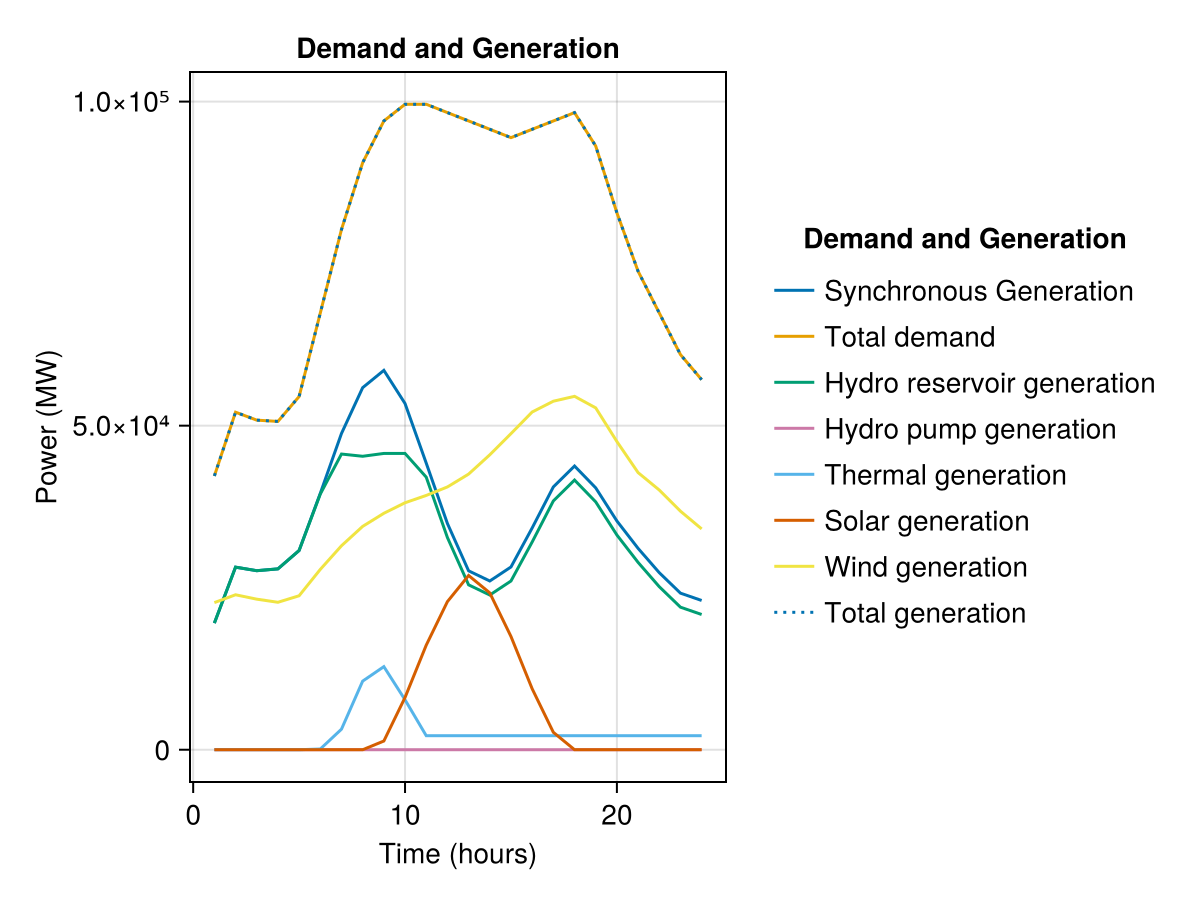
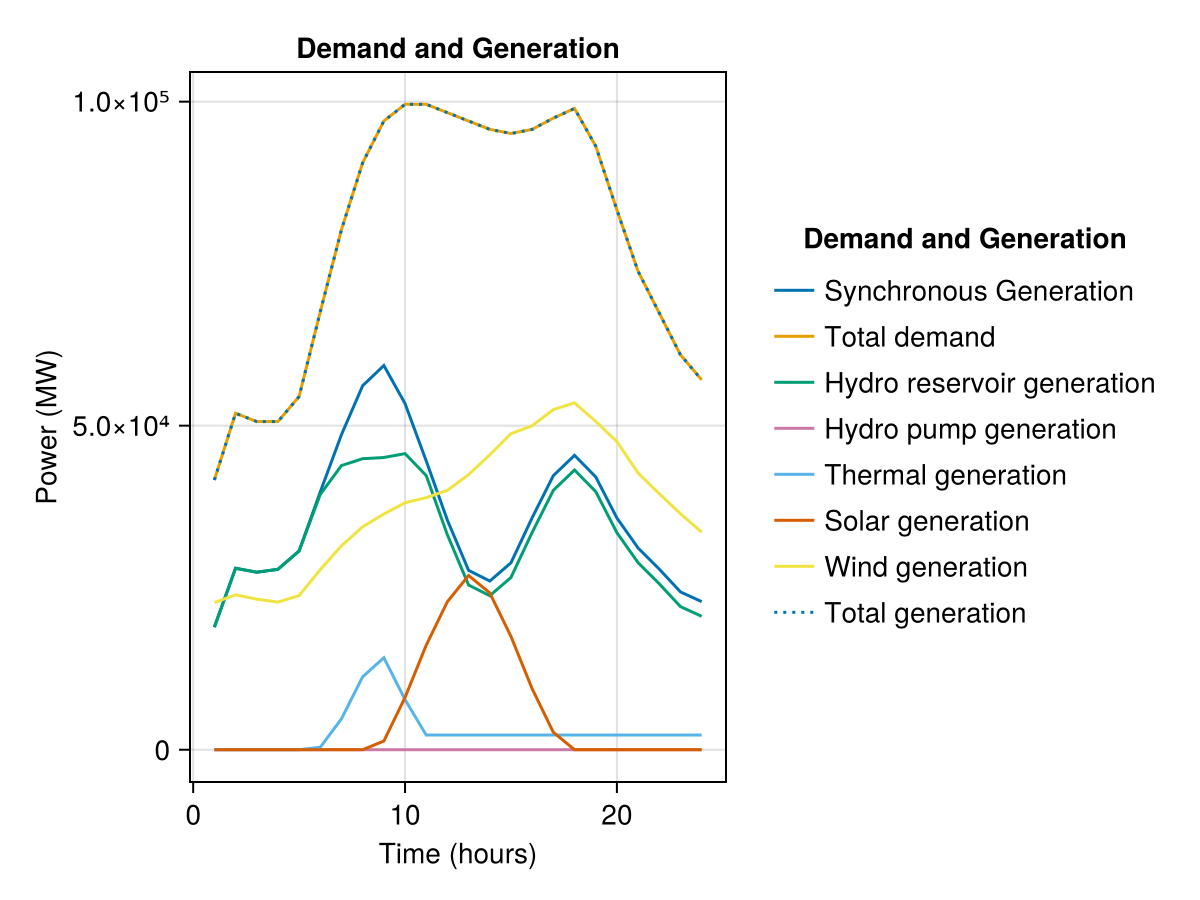
Backup_4_21_2026
En este codigo se organizo el error que no permitia tener un deploytment time más largo que 15 para el generador termico. Adicionalmente, se aseguro que la reserva solar y wind fuera cero para que no causara problemas en la restricción de estabilidad de frecuencia.

diff --git a/Nordic_test_system_together.m b/Nordic_test_system_together.m
@@ -885,135 +885,135 @@ mpc.gencost = [
 % 6 = mpc.gen_extra_oil
 
 mpc.genextra = [
-12457	15	4	2042.84	2042.84	0	0	15.287	204.284	0	3490352	1	0	0.9	349035.2	3490352	3455448.48;
-2458	15	4	894.69	894.69	0	0	15.287	89.469	0	1528653	1	0	0.9	152865.3	1528653	1513366.47;
-2460	15	4	299.08	299.08	0	0	15.287	29.908	0	510995	1	0	0.9	51099.5	510995	505885.05;
-4914	15	4	1730.37	1730.37	0	0	15.287	173.037	0	3706323	1	0	0.9	370632.3	3706323	3669259.77;
-4915	15	4	150.65	150.65	0	0	15.287	15.065	0	322671	1	0	0.9	32267.1	322671	319444.29;
-4916	15	4	383.08	383.08	0	0	15.287	38.308	0	820529	1	0	0.9	82052.9	820529	812323.71;
-4918	15	4	232.33	232.33	0	0	15.287	23.233	0	497632	1	0	0.9	49763.2	497632	492655.68;
-4919	15	4	1031.58	1031.58	0	0	15.287	103.158	0	2209561	1	0	0.9	220956.1	2209561	2187465.39;
-4920	15	4	517.79	517.79	0	0	15.287	51.779	0	1980268	1	0	0.9	198026.8	1980268	1960465.32;
-4921	15	4	179.49	179.49	0	0	15.287	17.949	0	686433	1	0	0.9	68643.3	686433	679568.67;
-4922	15	4	828.33	828.33	0	0	15.287	82.833	0	3167895	1	0	0.9	316789.5	3167895	3136216.05;
-4923	15	4	1199.29	1199.29	0	0	15.287	119.929	0	4586614	1	0	0.9	458661.4	4586614	4540747.86;
-4924	15	4	1876.63	1876.63	0	0	15.287	187.663	0	7177080	1	0	0.9	717708	7177080	7105309.20;
-4925	15	4	38.98	38.98	0	0	15.287	3.898	0	149066	1	0	0.9	14906.6	149066	147575.34;
-4926	15	4	100.12	100.12	0	0	15.287	10.012	0	382913	1	0	0.9	38291.3	382913	379083.87;
-4927	15	4	2654.59	2654.59	0	0	15.287	265.459	0	10152364	1	0	0.9	1015236.4	10152364	10050840.36;
-4928	15	4	425.64	425.64	0	0	15.287	42.564	0	1627857	1	0	0.9	162785.7	1627857	1611578.43;
-4929	15	4	476.73	476.73	0	0	15.287	47.673	0	1823222	1	0	0.9	182322.2	1823222	1804990.78;
-4930	15	4	150.08	150.08	0	0	15.287	15.008	0	573985	1	0	0.9	57398.5	573985	568245.15;
-4931	15	4	1004.57	1004.57	0	0	15.287	100.457	0	4653316	1	0	0.9	465331.6	4653316	4606782.84;
-4932	15	4	3355.43	3355.43	0	0	15.287	335.543	0	6524384	1	0	0.9	652438.4	6524384	6459140.16;
-4933	15	4	858.02	858.02	0	0	15.287	85.802	0	3743390	1	0	0.9	374339	3743390	3705956.10;
-4934	15	4	2358.23	2358.23	0	0	15.287	235.823	0	10288543	1	0	0.9	1028854.3	10288543	10185657.57;
-4935	15	4	2076.75	2076.75	0	0	15.287	207.675	0	9060467	1	0	0.9	906046.7	9060467	8969862.33;
-4936	15	4	774.52	774.52	0	0	15.287	77.452	0	1342375	1	0	0.9	134237.5	1342375	1328951.25;
-4937	15	4	4476.97	4476.97	0	0	15.287	447.697	0	7759368	1	0	0.9	775936.8	7759368	7681774.32;
-4938	15	4	690.11	690.11	0	0	15.287	69.011	0	1196078	1	0	0.9	119607.8	1196078	1184117.22;
-4939	15	4	750.68	750.68	0	0	15.287	75.068	0	1301067	1	0	0.9	130106.7	1301067	1288056.33;
-4940	15	4	1270.15	1270.15	0	0	15.287	127.015	0	2201386	1	0	0.9	220138.6	2201386	2179372.14;
-4941	15	4	2400.57	2400.57	0	0	15.287	240.057	0	4160615	1	0	0.9	416061.5	4160615	4119008.85;
-5476	15	4	1025.76	1025.76	0	0	15.287	102.576	0	2718217	1	0	0.9	271821.7	2718217	2691034.83;
-5477	15	4	4418.24	4418.24	0	0	15.287	441.824	0	11708090	1	0	0.9	1170809	11708090	11591009.10;
-5478	15	4	655.60	655.60	0	0	15.287	65.560	0	1201458	1	0	0.9	120145.8	1201458	1189443.42;
-5479	15	4	782.18	782.18	0	0	15.287	78.218	0	1433439	1	0	0.9	143343.9	1433439	1419104.61;
-5480	15	4	3417.36	3417.36	0	0	15.287	341.736	0	6262722	1	0	0.9	626272.2	6262722	6200094.78;
-5481	15	4	3219.97	3219.97	0	0	15.287	321.997	0	5900981	1	0	0.9	590098.1	5900981	5841971.19;
-5483	15	4	1728.26	1728.26	0	0	15.287	172.826	0	1763109	1	0	0.9	176310.9	1763109	1745477.91;
-5484	15	4	121.84	121.84	0	0	15.287	12.184	0	124296	1	0	0.9	12429.6	124296	123053.04;
-5485	15	4	375.38	375.38	0	0	15.287	37.538	0	382950	1	0	0.9	38295	382950	379120.50;
-5486	15	4	275.42	275.42	0	0	15.287	27.542	0	280978	1	0	0.9	28097.8	280978	278168.22;
-5487	15	4	52.08	52.08	0	0	15.287	5.208	0	53132	1	0	0.9	5313.2	53132	52600.68;
-5489	15	4	30.01	30.01	0	0	15.287	3.001	0	30612	1	0	0.9	3061.2	30612	30305.88;
-5490	15	4	21.13	21.13	0	0	15.287	2.113	0	64369	1	0	0.9	6436.9	64369	63725.31;
-5493	15	4	323.87	323.87	0	0	15.287	32.387	0	146981	1	0	0.9	14698.1	146981	145511.19;
-4922	15	4	35.89	35.89	0	0	15.287	3.589	-21.39	126069	2	0.7	0.9	12606.9	18910.35	18910.35;
-4924	15	4	861.44	861.44	0	0	15.287	86.144	-515.61	4076931	2	0.7	0.9	407693.1	611539.65	611539.65;
-4932	15	4	96.00	96.00	0	0	15.287	9.600	-84.00	182000	2	0.7	0.9	18200	27300	27300;
-4937	15	4	322.74	322.74	0	0	15.287	32.274	-299.14	563362	2	0.7	0.9	56336.2	84504.3	84504.3;
-4938	15	4	53.26	53.26	0	0	15.287	5.326	-49.86	74638	2	0.7	0.9	7463.8	11195.7	11195.7;
-2460	15	5	501 	501	    24  0	15.287	50.1	0	0	3	0	0	0	0	0;
-2460	15	5	501 	501	    24	0	15.287	50.1	0	0	3	0	0	0	0	0;
-2460	15	5	888 	888	    24	0	15.287	88.8	0	0	3	0	0	0	0	0;
-2460	15	5	888 	888	    24	0	15.287	88.8	0	0	3	0	0	0	0	0;
-2460	15	5	1615	1615	24	0	15.287	161.5	0	0	3	0	0	0	0	0;
-5484	15	5	1119	1119	24	0	15.287	111.9	0	0	3	0	0	0	0	0;
-5484	15	5	1166	1166	24	0	15.287	116.6	0	0	3	0	0	0	0	0;
-5488	15	5	1064	1064	24	0	15.287	106.4	0	0	3	0	0	0	0	0;
-5488	15	5	1105	1105	24	0	15.287	110.5	0	0	3	0	0	0	0	0;
-5489	15	5	1398	1398	24	0	15.287	139.8	0	0	3	0	0	0	0	0;
-2460	15	5	1127	1127	24	0	15.287	112.7	0	0	3	0	0	0	0	0;
-2460	15	5	1127	1127	24	0	15.287	112.7	0	0	3	0	0	0	0	0;
-2460	15	5	1127	1127	24	0	15.287	112.7	0	0	3	0	0	0	0	0;
-2460	15	5	1127	1127	24	0	15.287	112.7	0	0	3	0	0	0	0	0;
-2460	15	5	1127	1127	24	0	15.287	112.7	0	0	3	0	0	0	0	0;
-5484	15	5	1127	1127	24	0	15.287	112.7	0	0	3	0	0	0	0	0;
-5484	15	5	1127	1127	24	0	15.287	112.7	0	0	3	0	0	0	0	0;
-5488	15	5	1127	1127	24	0	15.287	112.7	0	0	3	0	0	0	0	0;
-5488	15	5	1127	1127	24	0	15.287	112.7	0	0	3	0	0	0	0	0;
-5489	15	5	1127	1127	24	0	15.287	112.7	0	0	3	0	0	0	0	0;
-5489	15	5	1127	1127	24	0	15.287	112.7	0	0	3	0	0	0	0	0;
-1517	15	4	583.2	583.2	0	0	15.287	16.2	0	0	4	0	0	0	0	0;
-1523	15	4	388.8	388.8	0	0	15.287	10.8	0	0	4	0	0	0	0	0;
-1524	15	4	763.2	763.2	0	0	15.287	21.2	0	0	4	0	0	0	0	0;
-1535	15	4	475.2	475.2	0	0	15.287	13.2	0	0	4	0	0	0	0	0;
-1559	15	4	381.6	381.6	0	0	15.287	10.6	0	0	4	0	0	0	0	0;
-2460	15	4	3038.4	3038.4	0	0	15.287	84.4	0	0	4	0	0	0	0	0;
-2460	15	4	3340.8	3340.8	0	0	15.287	92.8	0	0	4	0	0	0	0	0;
-2460	15	4	8330.4	8330.4	0	0	15.287	231.4	0	0	4	0	0	0	0	0;
-2460	15	4	11296.8	11296.8	0	0	15.287	313.8	0	0	4	0	0	0	0	0;
-4931	15	4	64.8	64.8	0	0	15.287	1.8	    0	0	4	0	0	0	0	0;
-4931	15	4	79.2	79.2	0	0	15.287	2.2 	0	0	4	0	0	0	0	0;
-4934	15	4	1404.0	1404.0	0	0	15.287	39.0	0	0	4	0	0	0	0	0;
-5480	15	4	388.8	388.8	0	0	15.287	10.8	0	0	4	0	0	0	0	0;
-5488	15	4	410.4	410.4	0	0	15.287	11.4	0	0	4	0	0	0	0	0;
-1544	15	4	18.6	18.6	1	1	15.287	3.1	    0	0	5	0	0	0	0	0;
-1547	15	4	85.8	85.8	1	1	15.287	14.3	0	0	5	0	0	0	0	0;
-1547	15	4	40.8	40.8	1	1	15.287	6.8	    0	0	5	0	0	0	0	0;
-1555	15	4	79.8	79.8	1	1	15.287	13.3	0	0	5	0	0	0	0	0;
-1569	15	4	142.8	142.8	1	1	15.287	23.8	0	0	5	0	0	0	0	0;
-1571	15	4	313.8	313.8	1	1	15.287	52.3	0	0	5	0	0	0	0	0;
-1571	15	4	33.0	33.0	1	1	15.287	5.5	    0	0	5	0	0	0	0	0;
-1571	15	4	33.0	33.0	1	1	15.287	5.5	    0	0	5	0	0	0	0	0;
-2457	15	4	210.6	210.6	1	1	15.287	35.1	0	0	5	0	0	0	0	0;
-2457	15	4	132.0	132.0	1	1	15.287	22.0	0	0	5	0	0	0	0	0;
-2457	15	4	82.8	82.8	1	1	15.287	13.8	0	0	5	0	0	0	0	0;
-2457	15	4	79.8	79.8	1	1	15.287	13.3	0	0	5	0	0	0	0	0;
-2457	15	4	78.6	78.6	1	1	15.287	13.1	0	0	5	0	0	0	0	0;
-2457	15	4	69.0	69.0	1	1	15.287	11.5	0	0	5	0	0	0	0	0;
-2457	15	4	66.0	66.0	1	1	15.287	11.0	0	0	5	0	0	0	0	0;
-2457	15	4	66.0	66.0	1	1	15.287	11.0	0	0	5	0	0	0	0	0;
-2457	15	4	58.8	58.8	1	1	15.287	9.8	    0	0	5	0	0	0	0	0;
-2460	15	4	310.8	310.8	1	1	15.287	51.8	0	0	5	0	0	0	0	0;
-2460	15	4	179.4	179.4	1	1	15.287	29.9	0	0	5	0	0	0	0	0;
-2460	15	4	178.8	178.8	1	1	15.287	29.8	0	0	5	0	0	0	0	0;
-2460	15	4	104.4	104.4	1	1	15.287	17.4	0	0	5	0	0	0	0	0;
-2460	15	4	102.0	102.0	1	1	15.287	17.0	0	0	5	0	0	0	0	0;
-2460	15	4	99.0	99.0	1	1	15.287	16.5	0	0	5	0	0	0	0	0;
-2460	15	4	91.8	91.8	1	1	15.287	15.3	0	0	5	0	0	0	0	0;
-2460	15	4	88.2	88.2	1	1	15.287	14.7	0	0	5	0	0	0	0	0;
-2460	15	4	85.2	85.2	1	1	15.287	14.2	0	0	5	0	0	0	0	0;
-2460	15	4	70.2	70.2	1	1	15.287	11.7	0	0	5	0	0	0	0	0;
-2460	15	4	69.0	69.0	1	1	15.287	11.5	0	0	5	0	0	0	0	0;
-2460	15	4	69.0	69.0	1	1	15.287	11.5	0	0	5	0	0	0	0	0;
-2460	15	4	55.2	55.2	1	1	15.287	9.2	    0	0	5	0	0	0	0	0;
-4917	15	4	30.0	30.0	1	1	15.287	5.0	    0	0	5	0	0	0	0	0;
-5476	15	4	180.0	180.0	1	1	15.287	30.0	0	0	5	0	0	0	0	0;
-5479	15	4	260.4	260.4	1	1	15.287	43.4	0	0	5	0	0	0	0	0;
-5480	15	4	200.4	200.4	1	1	15.287	33.4	0	0	5	0	0	0	0	0;
-5488	15	4	299.4	299.4	1	1	15.287	49.9	0	0	5	0	0	0	0	0;
-5488	15	4	299.4	299.4	1	1	15.287	49.9	0	0	5	0	0	0	0	0;
-5484	15	4	507.0	507.0	1	1	15.287	84.5	0	0	5	0	0	0	0	0;
-5484	15	4	282.0	282.0	1	1	15.287	47.0	0	0	5	0	0	0	0	0;
-5484	15	4	138.0	138.0	1	1	15.287	23.0	0	0	5	0	0	0	0	0;
-5484	15	4	115.2	115.2	1	1	15.287	19.2	0	0	5	0	0	0	0	0;
-5497	15	4	220.8	220.8	1	1	15.287	36.8	0	0	5	0	0	0	0	0;
-5497	15	4	147.6	147.6	1	1	15.287	24.6	0	0	5	0	0	0	0	0;
-5497	15	4	82.2	82.2	1	1	15.287	13.7	0	0	5	0	0	0	0	0;
-5497	15	4	42.6	42.6	1	1	15.287	7.1	    0	0	5	0	0	0	0	0;
-1603	15	4	120	    120	    8	8	15.287	59.3	0	0	6	0	0	0	0	0;
+12457	15.28	4	2042.84	2042.84	0	0	15.287	204.284	0	3490352	1	0	0.9	349035.2	3490352	3455448.48;
+2458	15.28	4	894.69	894.69	0	0	15.287	89.469	0	1528653	1	0	0.9	152865.3	1528653	1513366.47;
+2460	15.28	4	299.08	299.08	0	0	15.287	29.908	0	510995	1	0	0.9	51099.5	510995	505885.05;
+4914	15.28	4	1730.37	1730.37	0	0	15.287	173.037	0	3706323	1	0	0.9	370632.3	3706323	3669259.77;
+4915	15.28	4	150.65	150.65	0	0	15.287	15.065	0	322671	1	0	0.9	32267.1	322671	319444.29;
+4916	15.28	4	383.08	383.08	0	0	15.287	38.308	0	820529	1	0	0.9	82052.9	820529	812323.71;
+4918	15.28	4	232.33	232.33	0	0	15.287	23.233	0	497632	1	0	0.9	49763.2	497632	492655.68;
+4919	15.28	4	1031.58	1031.58	0	0	15.287	103.158	0	2209561	1	0	0.9	220956.1	2209561	2187465.39;
+4920	15.28	4	517.79	517.79	0	0	15.287	51.779	0	1980268	1	0	0.9	198026.8	1980268	1960465.32;
+4921	15.28	4	179.49	179.49	0	0	15.287	17.949	0	686433	1	0	0.9	68643.3	686433	679568.67;
+4922	15.28	4	828.33	828.33	0	0	15.287	82.833	0	3167895	1	0	0.9	316789.5	3167895	3136216.05;
+4923	15.28	4	1199.29	1199.29	0	0	15.287	119.929	0	4586614	1	0	0.9	458661.4	4586614	4540747.86;
+4924	15.28	4	1876.63	1876.63	0	0	15.287	187.663	0	7177080	1	0	0.9	717708	7177080	7105309.20;
+4925	15.28	4	38.98	38.98	0	0	15.287	3.898	0	149066	1	0	0.9	14906.6	149066	147575.34;
+4926	15.28	4	100.12	100.12	0	0	15.287	10.012	0	382913	1	0	0.9	38291.3	382913	379083.87;
+4927	15.28	4	2654.59	2654.59	0	0	15.287	265.459	0	10152364	1	0	0.9	1015236.4	10152364	10050840.36;
+4928	15.28	4	425.64	425.64	0	0	15.287	42.564	0	1627857	1	0	0.9	162785.7	1627857	1611578.43;
+4929	15.28	4	476.73	476.73	0	0	15.287	47.673	0	1823222	1	0	0.9	182322.2	1823222	1804990.78;
+4930	15.28	4	150.08	150.08	0	0	15.287	15.008	0	573985	1	0	0.9	57398.5	573985	568245.15;
+4931	15.28	4	1004.57	1004.57	0	0	15.287	100.457	0	4653316	1	0	0.9	465331.6	4653316	4606782.84;
+4932	15.28	4	3355.43	3355.43	0	0	15.287	335.543	0	6524384	1	0	0.9	652438.4	6524384	6459140.16;
+4933	15.28	4	858.02	858.02	0	0	15.287	85.802	0	3743390	1	0	0.9	374339	3743390	3705956.10;
+4934	15.28	4	2358.23	2358.23	0	0	15.287	235.823	0	10288543	1	0	0.9	1028854.3	10288543	10185657.57;
+4935	15.28	4	2076.75	2076.75	0	0	15.287	207.675	0	9060467	1	0	0.9	906046.7	9060467	8969862.33;
+4936	15.28	4	774.52	774.52	0	0	15.287	77.452	0	1342375	1	0	0.9	134237.5	1342375	1328951.25;
+4937	15.28	4	4476.97	4476.97	0	0	15.287	447.697	0	7759368	1	0	0.9	775936.8	7759368	7681774.32;
+4938	15.28	4	690.11	690.11	0	0	15.287	69.011	0	1196078	1	0	0.9	119607.8	1196078	1184117.22;
+4939	15.28	4	750.68	750.68	0	0	15.287	75.068	0	1301067	1	0	0.9	130106.7	1301067	1288056.33;
+4940	15.28	4	1270.15	1270.15	0	0	15.287	127.015	0	2201386	1	0	0.9	220138.6	2201386	2179372.14;
+4941	15.28	4	2400.57	2400.57	0	0	15.287	240.057	0	4160615	1	0	0.9	416061.5	4160614	4119008.85;
+5476	15.28	4	1025.76	1025.76	0	0	15.287	102.576	0	2718217	1	0	0.9	271821.7	2718217	2691034.83;
+5477	15.28	4	4418.24	4418.24	0	0	15.287	441.824	0	11708090	1	0	0.9	1170809	11708090	11591009.10;
+5478	15.28	4	655.60	655.60	0	0	15.287	65.560	0	1201458	1	0	0.9	120145.8	1201458	1189443.42;
+5479	15.28	4	782.18	782.18	0	0	15.287	78.218	0	1433439	1	0	0.9	143343.9	1433439	1419104.61;
+5480	15.28	4	3417.36	3417.36	0	0	15.287	341.736	0	6262722	1	0	0.9	626272.2	6262722	6200094.78;
+5481	15.28	4	3219.97	3219.97	0	0	15.287	321.997	0	5900981	1	0	0.9	590098.1	5900981	5841971.19;
+5483	15.28	4	1728.26	1728.26	0	0	15.287	172.826	0	1763109	1	0	0.9	176310.9	1763109	1745477.91;
+5484	15.28	4	121.84	121.84	0	0	15.287	12.184	0	124296	1	0	0.9	12429.6	124296	123053.04;
+5485	15.28	4	375.38	375.38	0	0	15.287	37.538	0	382950	1	0	0.9	38295	382950	379120.50;
+5486	15.28	4	275.42	275.42	0	0	15.287	27.542	0	280978	1	0	0.9	28097.8	280978	278168.22;
+5487	15.28	4	52.08	52.08	0	0	15.287	5.208	0	53132	1	0	0.9	5313.2	53132	52600.68;
+5489	15.28	4	30.01	30.01	0	0	15.287	3.001	0	30612	1	0	0.9	3061.2	30612	30305.88;
+5490	15.28	4	21.13	21.13	0	0	15.287	2.113	0	64369	1	0	0.9	6436.9	64369	63725.31;
+5493	15.28	4	323.87	323.87	0	0	15.287	32.387	0	146981	1	0	0.9	14698.1	146981	145511.19;
+4922	15.28	4	35.89	35.89	0	0	15.287	3.589	-21.39	126069	2	0.7	0.9	12606.9	18910.35	18910.35;
+4924	15.28	4	861.44	861.44	0	0	15.287	86.144	-515.61	4076931	2	0.7	0.9	407693.1	611539.65	611539.65;
+4932	15.28	4	96.00	96.00	0	0	15.287	9.600	-84.00	182000	2	0.7	0.9	18200	27300	27300;
+4937	15.28	4	322.74	322.74	0	0	15.287	32.274	-299.14	563362	2	0.7	0.9	56336.2	84504.3	84504.3;
+4938	15.28	4	53.26	53.26	0	0	15.287	5.326	-49.86	74638	2	0.7	0.9	7463.8	11195.7	11195.7;
+2460	15.28	5	501 	501	    24  0	15.287	50.1	0	0	3	0	0	0	0	0;
+2460	15.28	5	501 	501	    24	0	15.287	50.1	0	0	3	0	0	0	0	0;
+2460	15.28	5	888 	888	    24	0	15.287	88.8	0	0	3	0	0	0	0	0;
+2460	15.28	5	888 	888	    24	0	15.287	88.8	0	0	3	0	0	0	0	0;
+2460	15.28	5	1615	1615	24	0	15.287	161.5	0	0	3	0	0	0	0	0;
+5484	15.28	5	1119	1119	24	0	15.287	111.9	0	0	3	0	0	0	0	0;
+5484	15.28	5	1166	1166	24	0	15.287	116.6	0	0	3	0	0	0	0	0;
+5488	15.28	5	1064	1064	24	0	15.287	106.4	0	0	3	0	0	0	0	0;
+5488	15.28	5	1105	1105	24	0	15.287	110.5	0	0	3	0	0	0	0	0;
+5489	15.28	5	1398	1398	24	0	15.287	139.8	0	0	3	0	0	0	0	0;
+2460	15.28	5	1127	1127	24	0	15.287	112.7	0	0	3	0	0	0	0	0;
+2460	15.28	5	1127	1127	24	0	15.287	112.7	0	0	3	0	0	0	0	0;
+2460	15.28	5	1127	1127	24	0	15.287	112.7	0	0	3	0	0	0	0	0;
+2460	15.28	5	1127	1127	24	0	15.287	112.7	0	0	3	0	0	0	0	0;
+2460	15.28	5	1127	1127	24	0	15.287	112.7	0	0	3	0	0	0	0	0;
+5484	15.28	5	1127	1127	24	0	15.287	112.7	0	0	3	0	0	0	0	0;
+5484	15.28	5	1127	1127	24	0	15.287	112.7	0	0	3	0	0	0	0	0;
+5488	15.28	5	1127	1127	24	0	15.287	112.7	0	0	3	0	0	0	0	0;
+5488	15.28	5	1127	1127	24	0	15.287	112.7	0	0	3	0	0	0	0	0;
+5489	15.28	5	1127	1127	24	0	15.287	112.7	0	0	3	0	0	0	0	0;
+5489	15.28	5	1127	1127	24	0	15.287	112.7	0	0	3	0	0	0	0	0;
+1517	15.28	4	583.2	583.2	0	0	15.287	16.2	0	0	4	0	0	0	0	0;
+1523	15.28	4	388.8	388.8	0	0	15.287	10.8	0	0	4	0	0	0	0	0;
+1524	15.28	4	763.2	763.2	0	0	15.287	21.2	0	0	4	0	0	0	0	0;
+1535	15.28	4	475.2	475.2	0	0	15.287	13.2	0	0	4	0	0	0	0	0;
+1559	15.28	4	381.6	381.6	0	0	15.287	10.6	0	0	4	0	0	0	0	0;
+2460	15.28	4	3038.4	3038.4	0	0	15.287	84.4	0	0	4	0	0	0	0	0;
+2460	15.28	4	3340.8	3340.8	0	0	15.287	92.8	0	0	4	0	0	0	0	0;
+2460	15.28	4	8330.4	8330.4	0	0	15.287	231.4	0	0	4	0	0	0	0	0;
+2460	15.28	4	11296.8	11296.8	0	0	15.287	313.8	0	0	4	0	0	0	0	0;
+4931	15.28	4	64.8	64.8	0	0	15.287	1.8	    0	0	4	0	0	0	0	0;
+4931	15.28	4	79.2	79.2	0	0	15.287	2.2 	0	0	4	0	0	0	0	0;
+4934	15.28	4	1404.0	1404.0	0	0	15.287	39.0	0	0	4	0	0	0	0	0;
+5480	15.28	4	388.8	388.8	0	0	15.287	10.8	0	0	4	0	0	0	0	0;
+5488	15.28	4	410.4	410.4	0	0	15.287	11.4	0	0	4	0	0	0	0	0;
+1544	15.28	4	18.6	18.6	1	1	15.287	3.1	    0	0	5	0	0	0	0	0;
+1547	15.28	4	85.8	85.8	1	1	15.287	14.3	0	0	5	0	0	0	0	0;
+1547	15.28	4	40.8	40.8	1	1	15.287	6.8	    0	0	5	0	0	0	0	0;
+1555	15.28	4	79.8	79.8	1	1	15.287	13.3	0	0	5	0	0	0	0	0;
+1569	15.28	4	142.8	142.8	1	1	15.287	23.8	0	0	5	0	0	0	0	0;
+1571	15.28	4	313.8	313.8	1	1	15.287	52.3	0	0	5	0	0	0	0	0;
+1571	15.28	4	33.0	33.0	1	1	15.287	5.5	    0	0	5	0	0	0	0	0;
+1571	15.28	4	33.0	33.0	1	1	15.287	5.5	    0	0	5	0	0	0	0	0;
+2457	15.28	4	210.6	210.6	1	1	15.287	35.1	0	0	5	0	0	0	0	0;
+2457	15.28	4	132.0	132.0	1	1	15.287	22.0	0	0	5	0	0	0	0	0;
+2457	15.28	4	82.8	82.8	1	1	15.287	13.8	0	0	5	0	0	0	0	0;
+2457	15.28	4	79.8	79.8	1	1	15.287	13.3	0	0	5	0	0	0	0	0;
+2457	15.28	4	78.6	78.6	1	1	15.287	13.1	0	0	5	0	0	0	0	0;
+2457	15.28	4	69.0	69.0	1	1	15.287	11.5	0	0	5	0	0	0	0	0;
+2457	15.28	4	66.0	66.0	1	1	15.287	11.0	0	0	5	0	0	0	0	0;
+2457	15.28	4	66.0	66.0	1	1	15.287	11.0	0	0	5	0	0	0	0	0;
+2457	15.28	4	58.8	58.8	1	1	15.287	9.8	    0	0	5	0	0	0	0	0;
+2460	15.28	4	310.8	310.8	1	1	15.287	51.8	0	0	5	0	0	0	0	0;
+2460	15.28	4	179.4	179.4	1	1	15.287	29.9	0	0	5	0	0	0	0	0;
+2460	15.28	4	178.8	178.8	1	1	15.287	29.8	0	0	5	0	0	0	0	0;
+2460	15.28	4	104.4	104.4	1	1	15.287	17.4	0	0	5	0	0	0	0	0;
+2460	15.28	4	102.0	102.0	1	1	15.287	17.0	0	0	5	0	0	0	0	0;
+2460	15.28	4	99.0	99.0	1	1	15.287	16.5	0	0	5	0	0	0	0	0;
+2460	15.28	4	91.8	91.8	1	1	15.287	15.3	0	0	5	0	0	0	0	0;
+2460	15.28	4	88.2	88.2	1	1	15.287	14.7	0	0	5	0	0	0	0	0;
+2460	15.28	4	85.2	85.2	1	1	15.287	14.2	0	0	5	0	0	0	0	0;
+2460	15.28	4	70.2	70.2	1	1	15.287	11.7	0	0	5	0	0	0	0	0;
+2460	15.28	4	69.0	69.0	1	1	15.287	11.5	0	0	5	0	0	0	0	0;
+2460	15.28	4	69.0	69.0	1	1	15.287	11.5	0	0	5	0	0	0	0	0;
+2460	15.28	4	55.2	55.2	1	1	15.287	9.2	    0	0	5	0	0	0	0	0;
+4917	15.28	4	30.0	30.0	1	1	15.287	5.0	    0	0	5	0	0	0	0	0;
+5476	15.28	4	180.0	180.0	1	1	15.287	30.0	0	0	5	0	0	0	0	0;
+5479	15.28	4	260.4	260.4	1	1	15.287	43.4	0	0	5	0	0	0	0	0;
+5480	15.28	4	200.4	200.4	1	1	15.287	33.4	0	0	5	0	0	0	0	0;
+5488	15.28	4	299.4	299.4	1	1	15.287	49.9	0	0	5	0	0	0	0	0;
+5488	15.28	4	299.4	299.4	1	1	15.287	49.9	0	0	5	0	0	0	0	0;
+5484	15.28	4	507.0	507.0	1	1	15.287	84.5	0	0	5	0	0	0	0	0;
+5484	15.28	4	282.0	282.0	1	1	15.287	47.0	0	0	5	0	0	0	0	0;
+5484	15.28	4	138.0	138.0	1	1	15.287	23.0	0	0	5	0	0	0	0	0;
+5484	15.28	4	115.2	115.2	1	1	15.287	19.2	0	0	5	0	0	0	0	0;
+5497	15.28	4	220.8	220.8	1	1	15.287	36.8	0	0	5	0	0	0	0	0;
+5497	15.28	4	147.6	147.6	1	1	15.287	24.6	0	0	5	0	0	0	0	0;
+5497	15.28	4	82.2	82.2	1	1	15.287	13.7	0	0	5	0	0	0	0	0;
+5497	15.28	4	42.6	42.6	1	1	15.287	7.1	    0	0	5	0	0	0	0	0;
+1603	15.28	4	120	    120	    8	8	15.287	59.3	0	0	6	0	0	0	0	0;
 1517	0.03	0	0	0	0	0	0	0	0	0	7	0	0	0	0	0;
 1519	0.03	0	0	0	0	0	0	0	0	0	7	0	0	0	0	0;
 1520	0.03	0	0	0	0	0	0	0	0	0	7	0	0	0	0	0;
@@ -1219,13 +1219,13 @@ mpc.genextra = [
 %% Electrolyzer data
 %  1-AC_bus   2-area   3-Pmax_MW   4-Pmin_MW   5-eta_ely_MWh_per_kg   6-LoadFactor   7-max_hydrog_flow_kg   8-Smax_kg    9-Smin_kg   10-S0_kg   11-ST_kg   12-DeployTime_s   13-ReserveCost_£_per_MW_h   14-eta_c   15-eta_d   16-StartupCost_£   17-CompressEnergy_MWh_per_kg   18-Hydrogen_market_price_Eur_per_kg
 mpc.elec = [
-    0   0   1000   100   0.058   0.8   17286   0   0   0   0   0.2   15.3   0.9   0.9   855.5   0.00167   4;
+    0   0   1000   100   0.058   0.8   17286   0   0   0   0   8.3   15.3   0.9   0.9   855.5   0.00167   4;
 ];
 
 %% BESS data (custom)
 %  1-AC_bus   2-area   3-Pmax_MW   4-Emax_MWh   5-DODmax   6-eta_c   7-eta_d   8-E_init_MWh   9-E_final_MWh   10-DeployTime_s   11-ReserveCost_$_per_MW_h
 mpc.bess = [
-    0           0        650         1311        0.8      0.9       0.9        393.3              393.3               0.2                15.3;
+    0           0        650         1311        0.8      0.9       0.9        393.3              393.3               8.3                15.3;
 ];
 
 %mpc.total_installed_capacity=sum(mpc.reservoir(:,9))+sum(mpc.pump(:,9))+sum(mpc.nuclear(:,9))+sum(mpc.gas(:,9))+sum(mpc.biomass(:,9))+sum(mpc.oil(:,9))+mpc.wind+mpc.solar;
